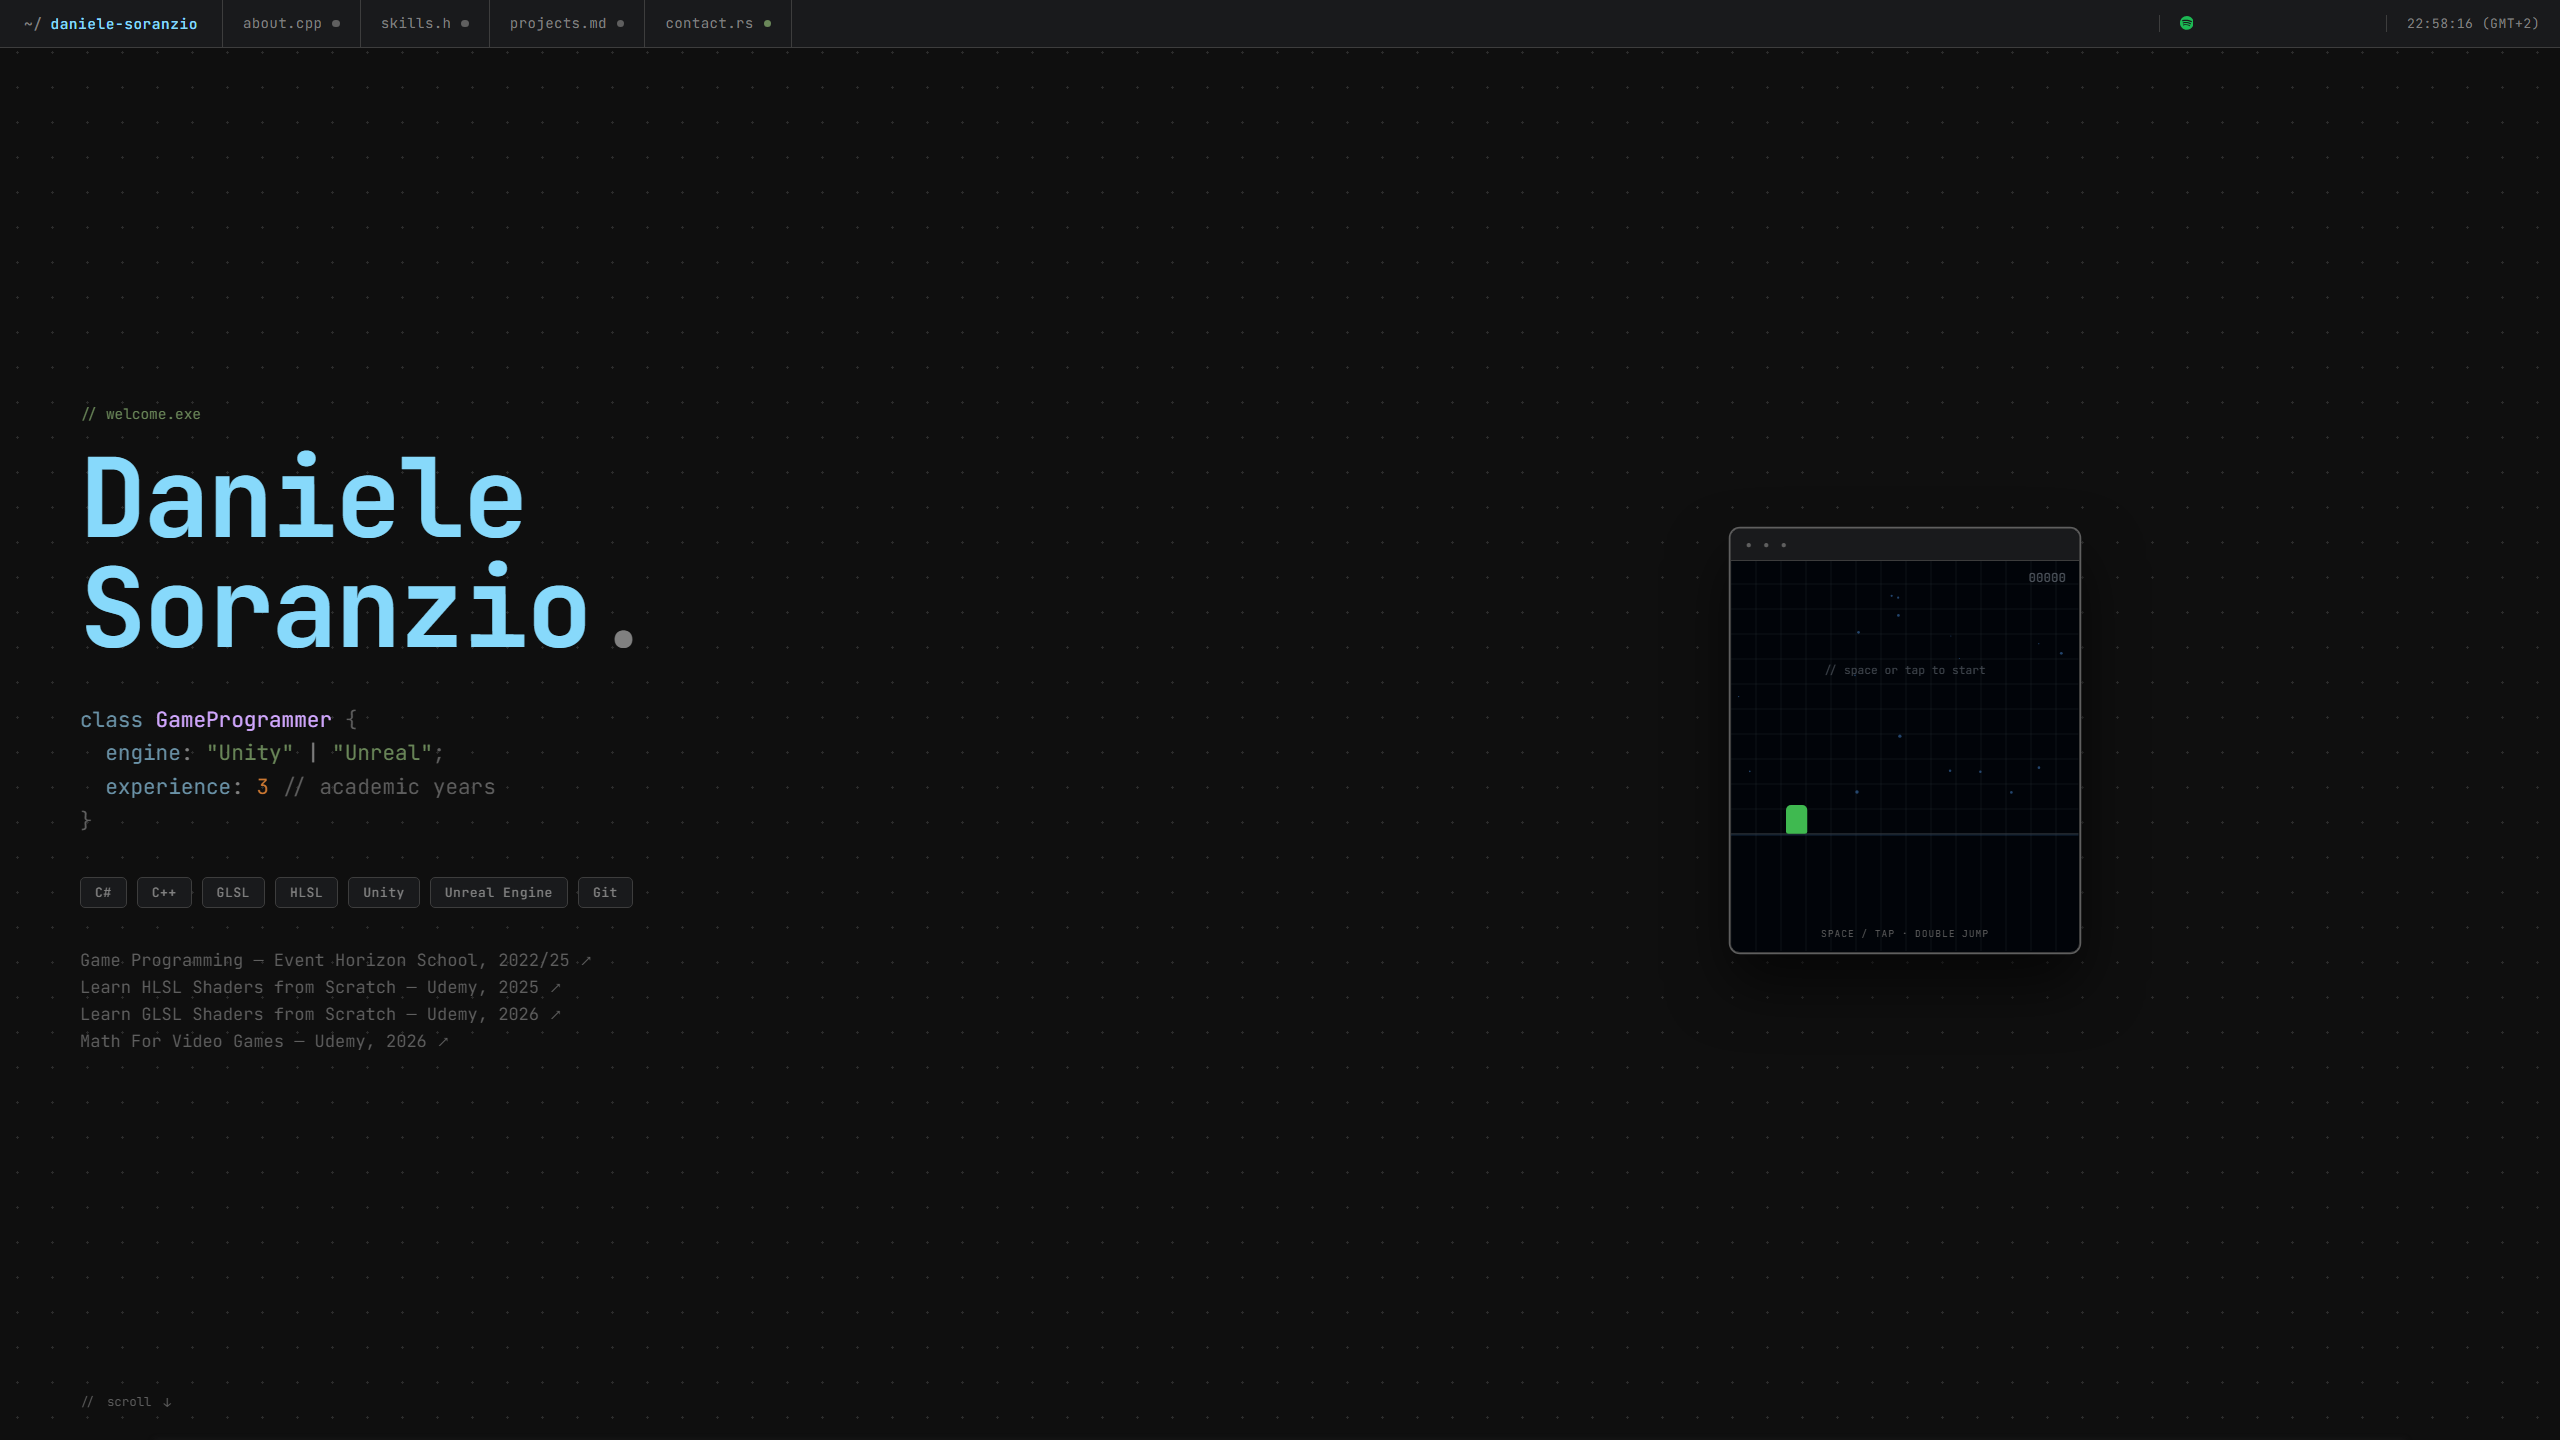
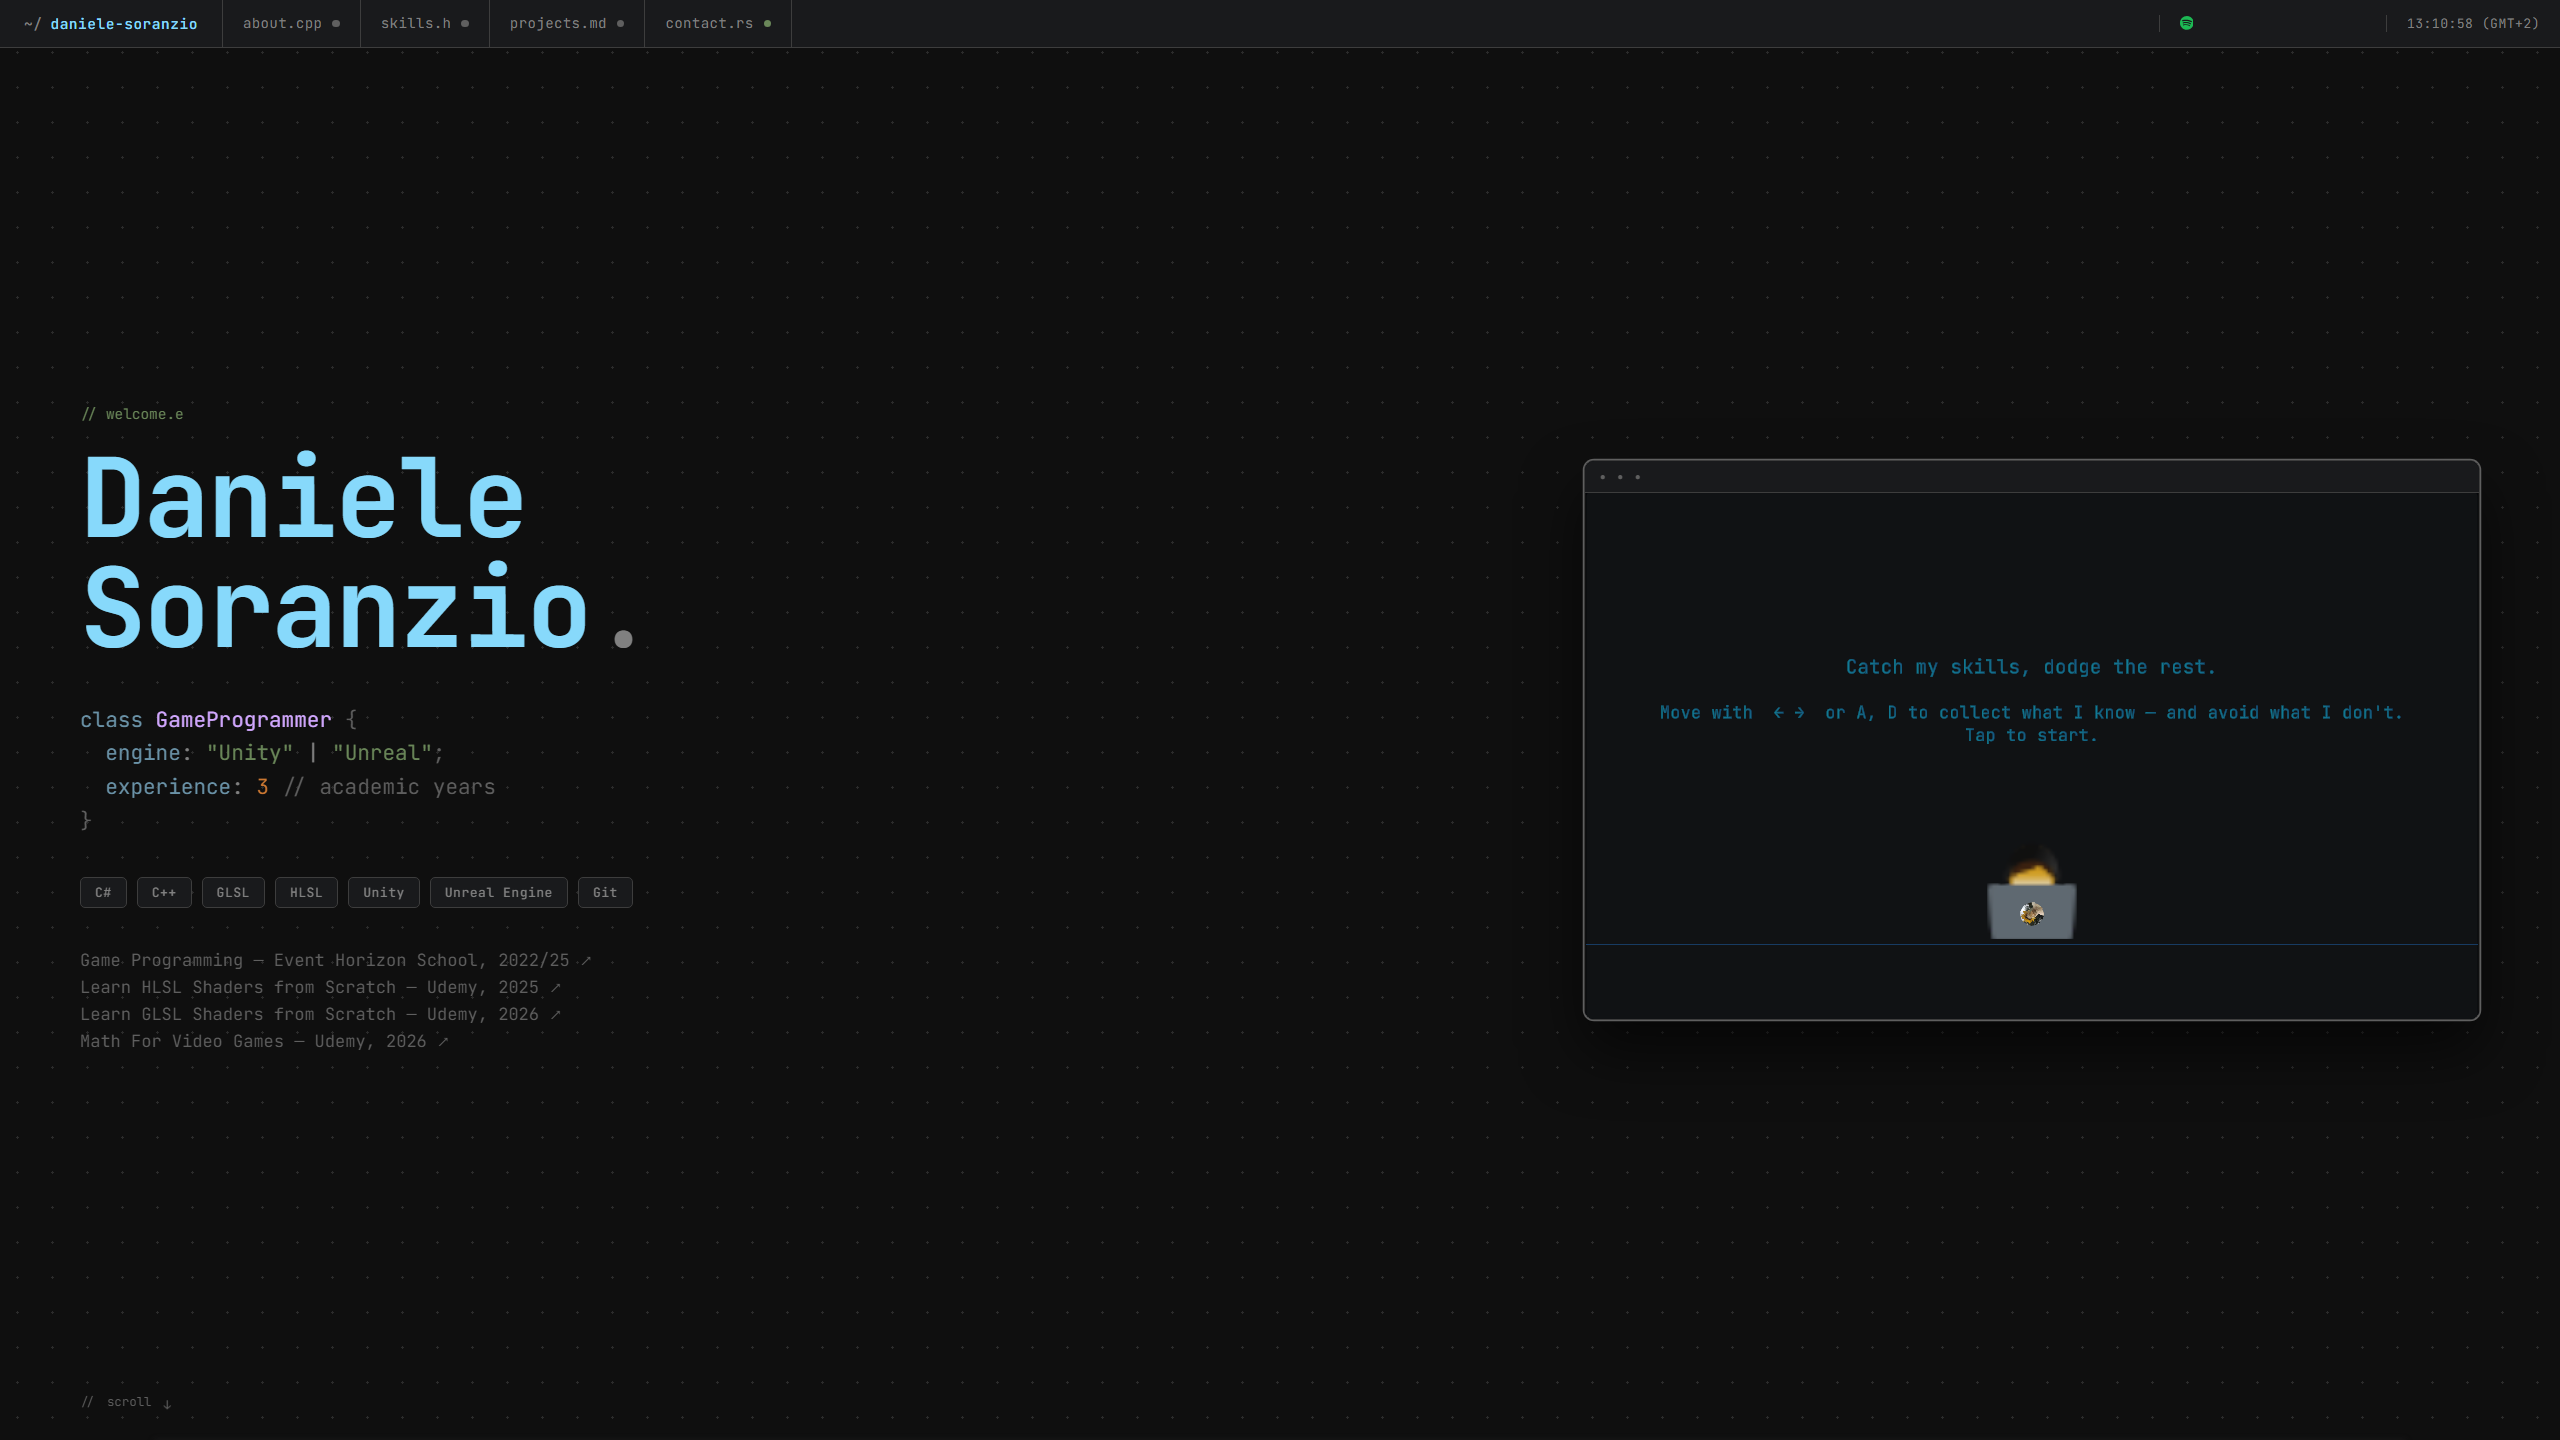
webicon update

diff --git a/index.html b/index.html
@@ -15,7 +15,7 @@
   <link rel="icon" sizes="192x192" href="/Assets/android-chrome-192x192.png">
   <link rel="apple-touch-icon" href="/Assets/apple-touch-icon.png">
   <link rel="manifest" href="/manifest.json">
-  <meta property="og:image" content="https://danielesoranzio.dev/Assets/webicon.png">
+  <meta property="og:image" content="https://danielesoranzio.dev/Assets/webIcon.png">
   <meta property="og:title" content="Daniele Soranzio — Game Programmer">
   <meta property="og:description" content="Game dev portfolio. Unity, Unreal, GLSL, HLSL.">
   <meta property="og:url" content="https://danielesoranzio.dev">
